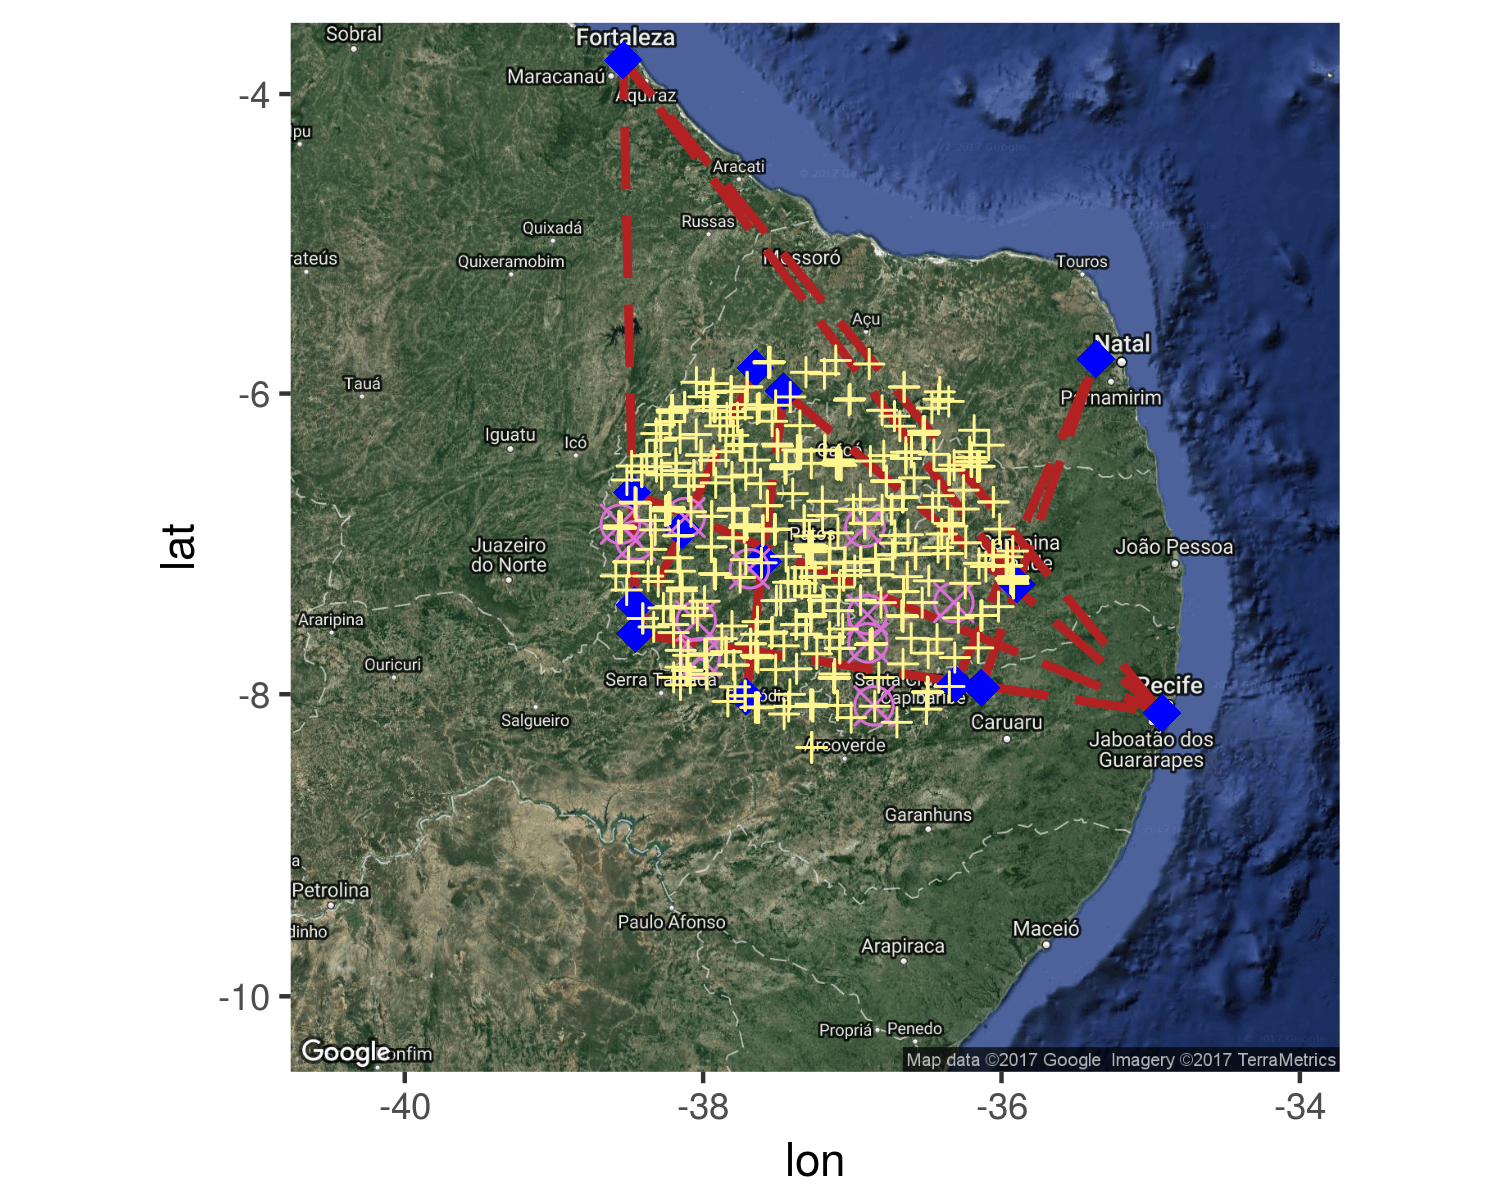
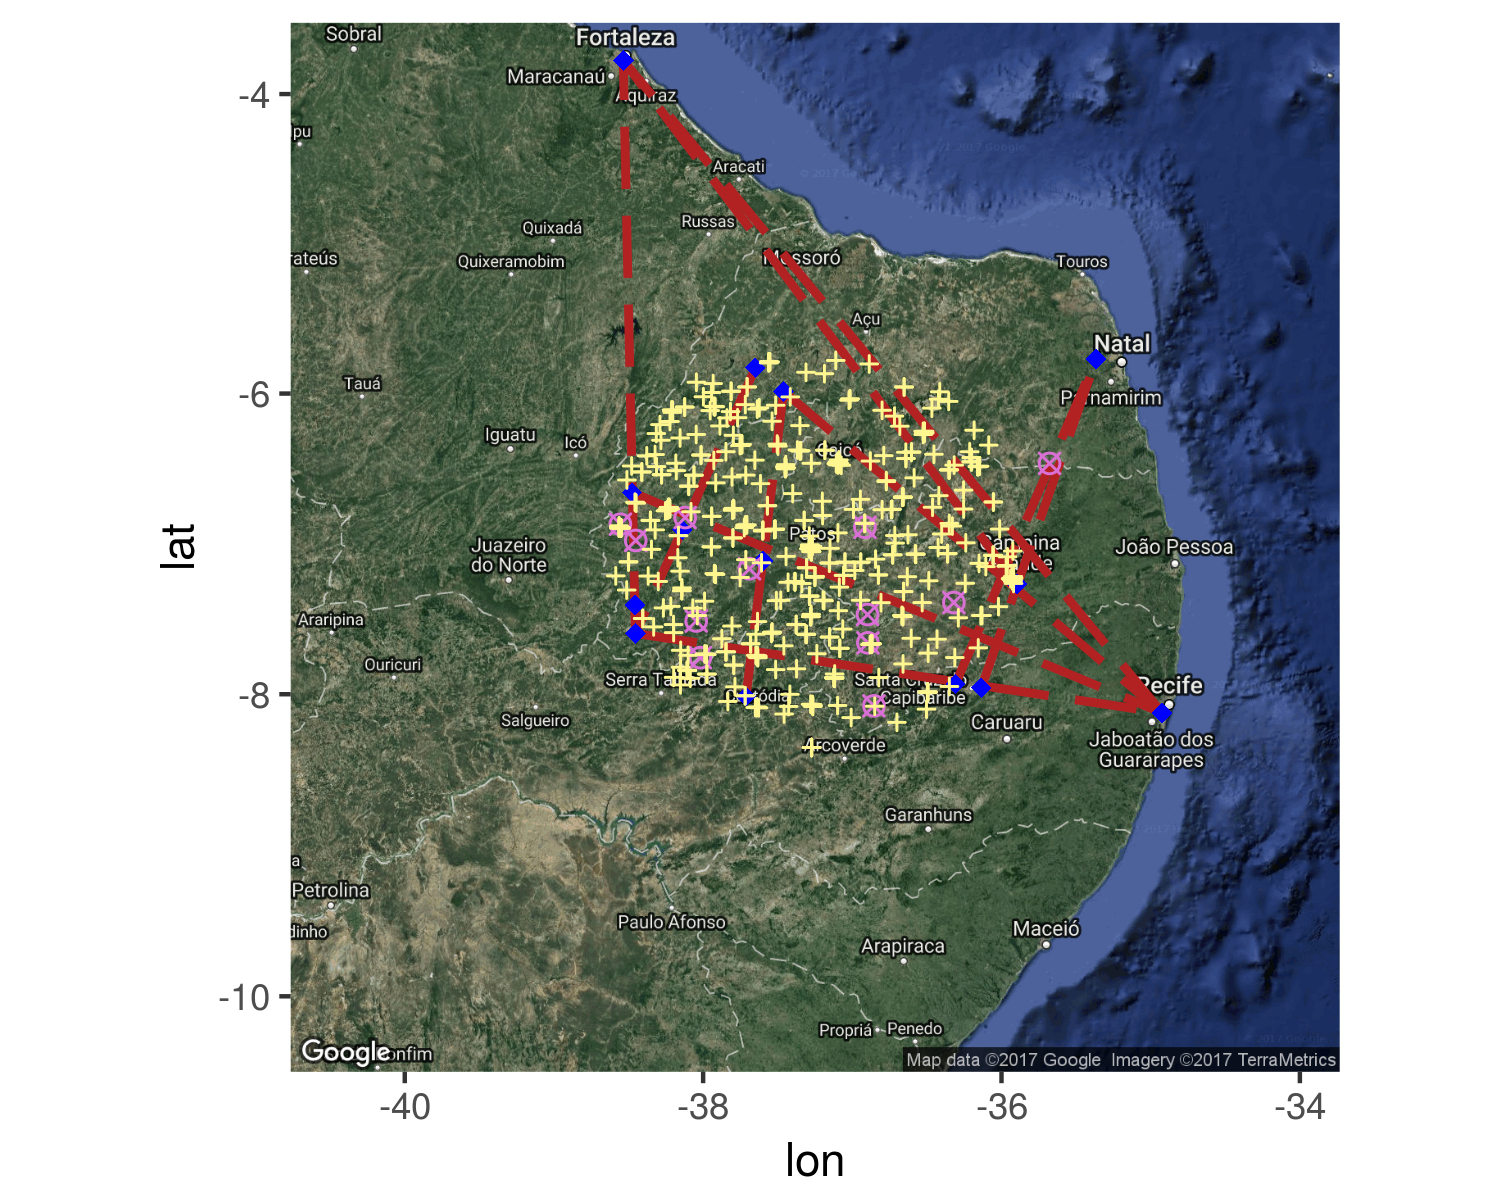
Sitios atualizados

diff --git a/README.md b/README.md
@@ -52,3 +52,6 @@ output: html_document
 
 # Açude de Nova Olinda
 ![Mapa de Sitios Possíveis](/sitios11.png)
+
+# Pedra da Boca
+![Mapa de Sitios Possíveis](/sitios12.png)
